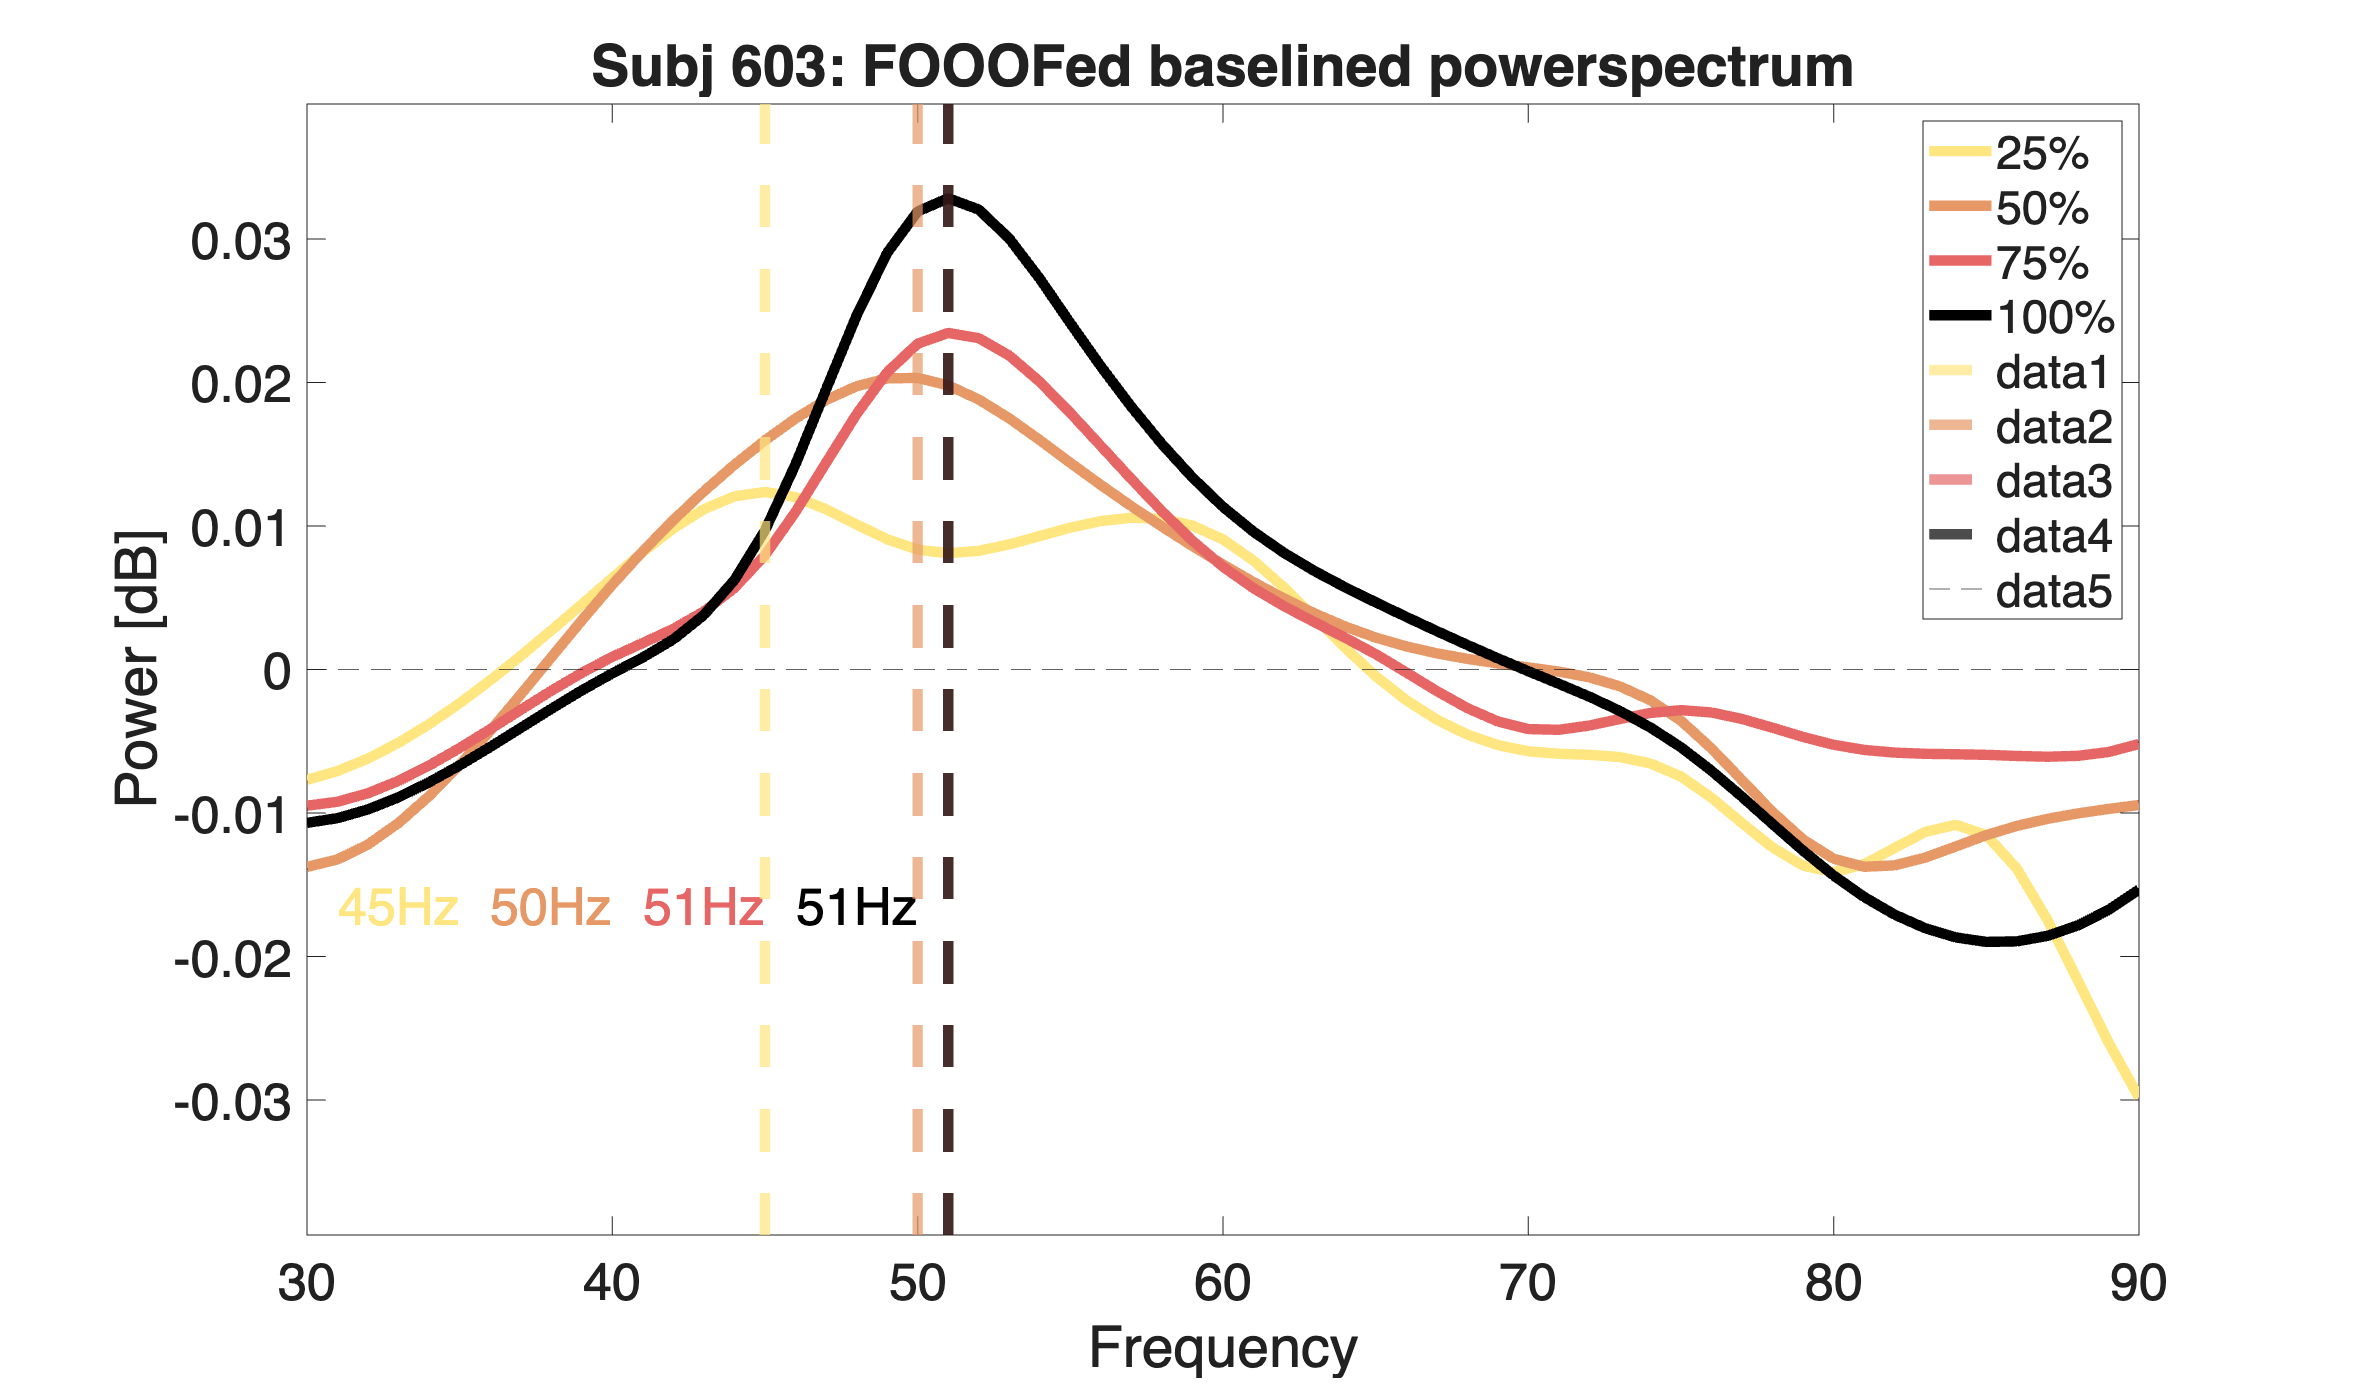
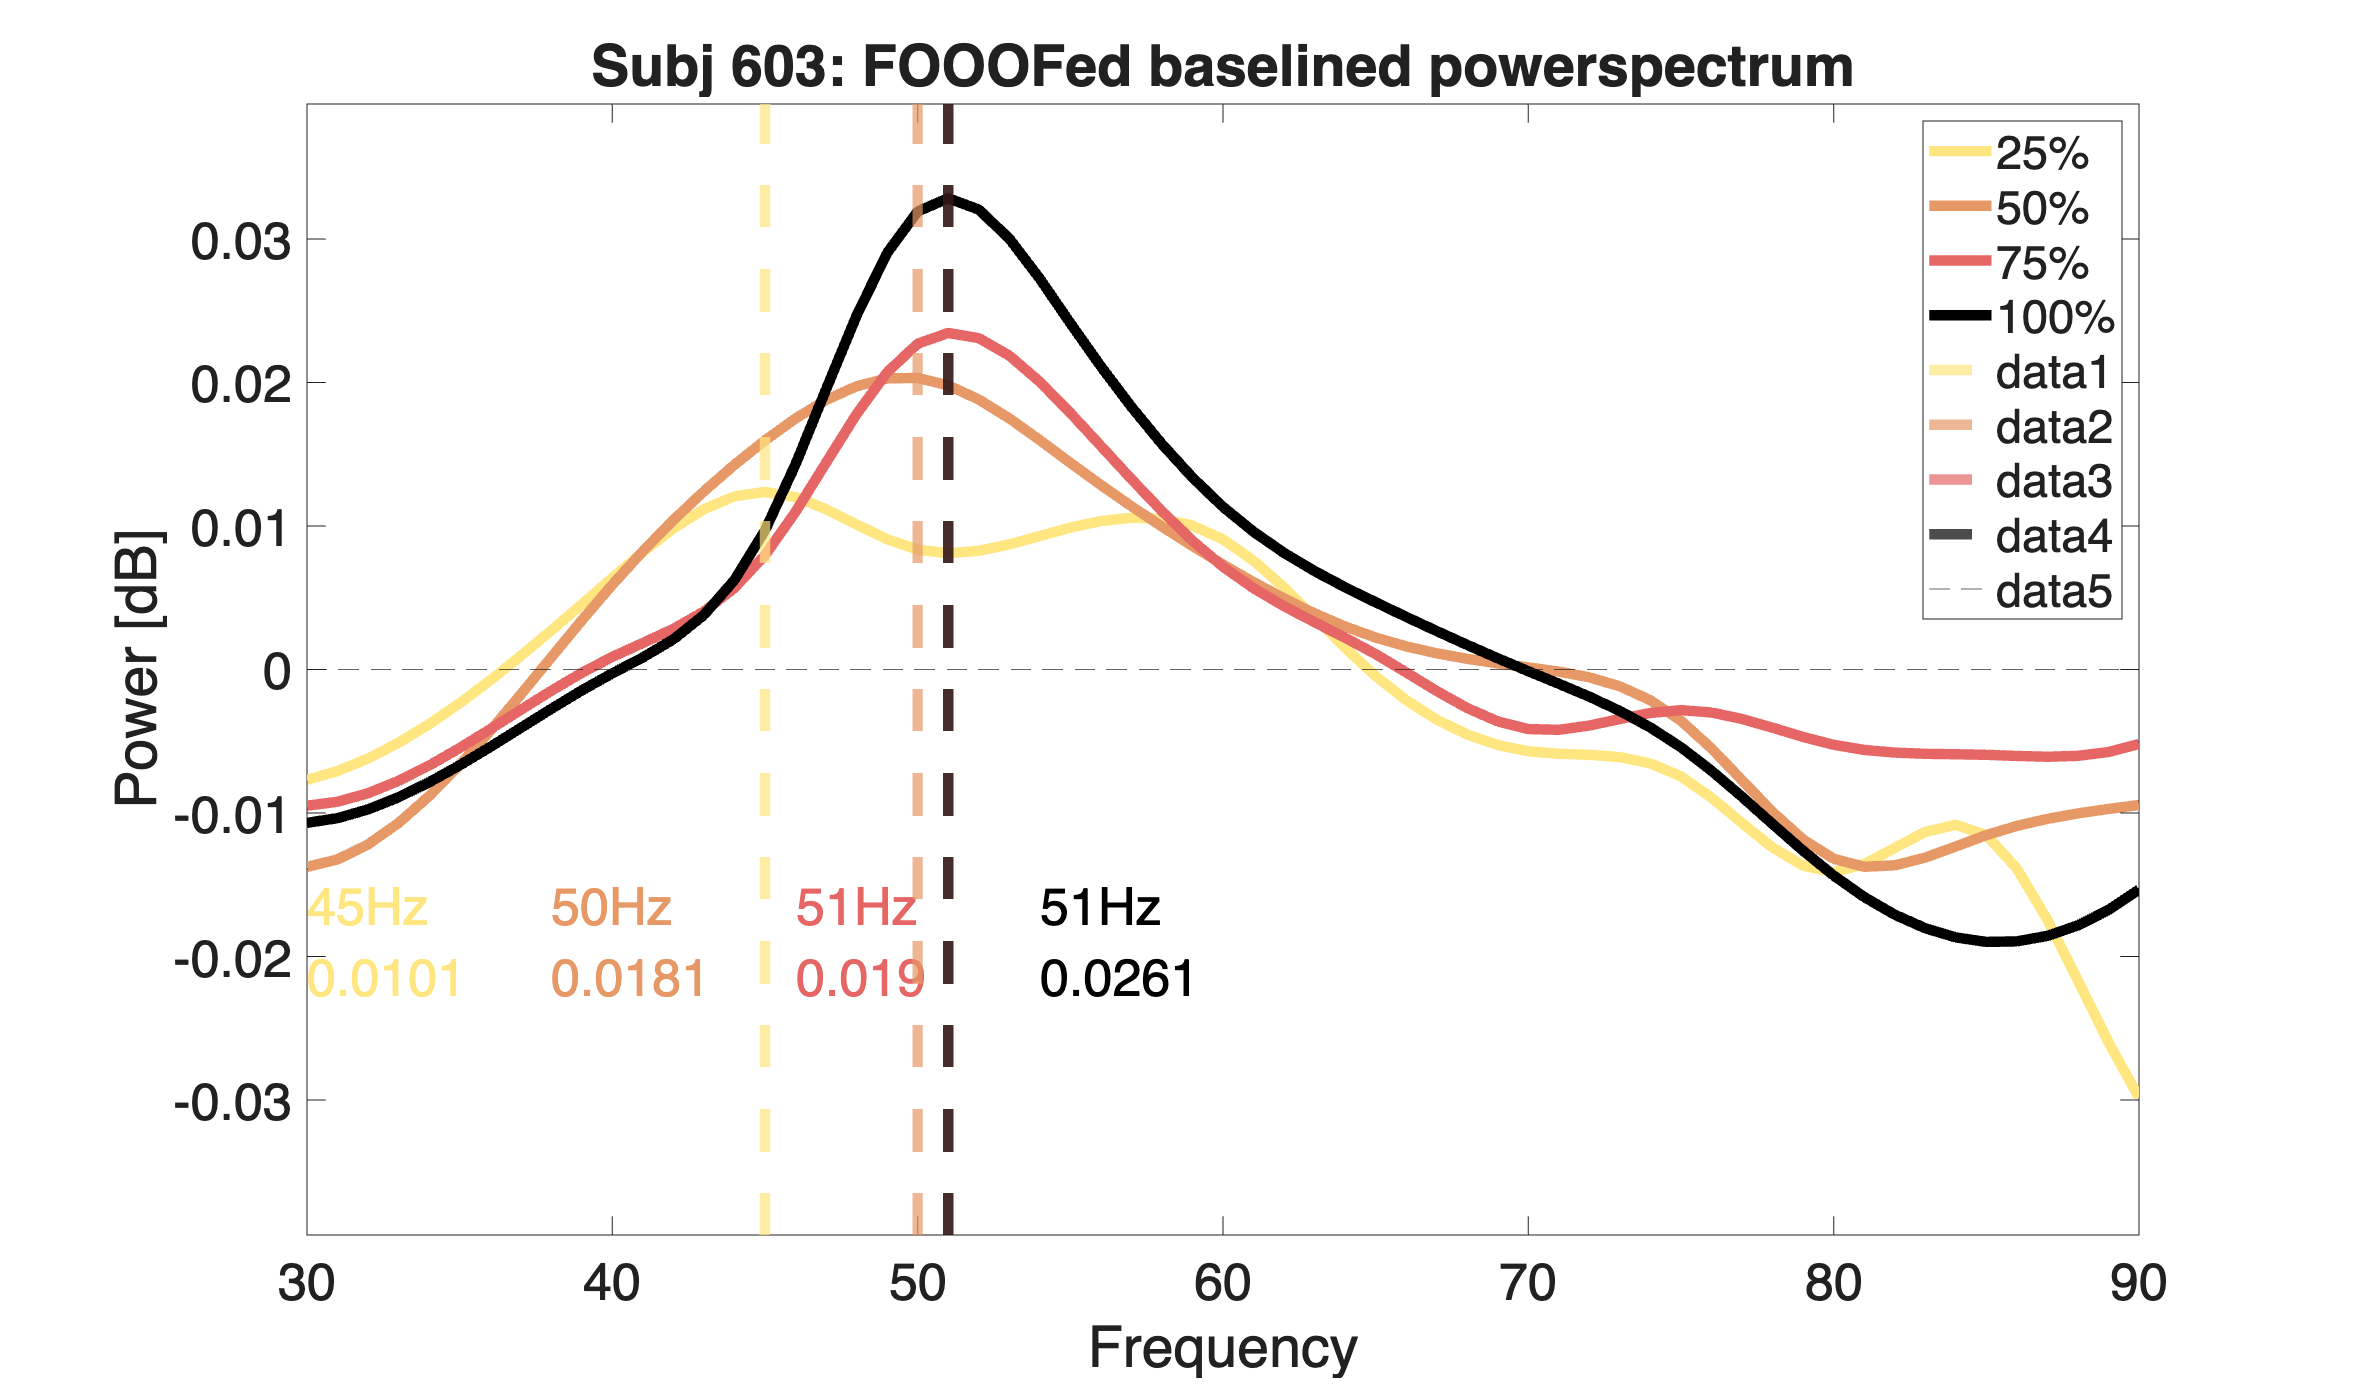
eeg fex controls powerspctrm

Changed region(s): [[0.1236, 0.6196, 0.4016, 0.7125], [0.4325, 0.6196, 0.4943, 0.7435]]

diff --git a/2_feature_extraction/GCP_eeg_fex.m b/2_feature_extraction/GCP_eeg_fex.m
@@ -11,7 +11,7 @@
 
 %% Setup
 startup
-[subjects, path, colors, ~] = setup('GCP');
+[subjects, path, ~, ~] = setup('GCP');
 
 %% Extract TFR
 % Read data, segment and convert to FieldTrip data structure
@@ -257,8 +257,8 @@ for subj = 1:length(subjects)
 
         % ±5 Hz range
         c25_freq_range = c25_freq + [-5 5];
-        c25_freq_idx_range = find(pow_c25_baselined.freq >= c25_freq_range(1) & ...
-            pow_c25_baselined.freq <= c25_freq_range(2));
+        c25_freq_idx_range = find(pow_c25_fooof_bl_smooth.freq >= c25_freq_range(1) & ...
+            pow_c25_fooof_bl_smooth.freq <= c25_freq_range(2));
 
         c25_pow = mean(c25_gamma_power(c25_freq_idx_range));
     end
@@ -277,8 +277,8 @@ for subj = 1:length(subjects)
 
         % ±5 Hz range
         c50_freq_range = c50_freq + [-5 5];
-        c50_freq_idx_range = find(pow_c50_baselined.freq >= c50_freq_range(1) & ...
-            pow_c50_baselined.freq <= c50_freq_range(2));
+        c50_freq_idx_range = find(pow_c50_fooof_bl_smooth.freq >= c50_freq_range(1) & ...
+            pow_c50_fooof_bl_smooth.freq <= c50_freq_range(2));
 
         c50_pow = mean(c50_gamma_power(c50_freq_idx_range));
     end
@@ -297,8 +297,8 @@ for subj = 1:length(subjects)
 
         % ±5 Hz range
         c75_freq_range = c75_freq + [-5 5];
-        c75_freq_idx_range = find(pow_c75_baselined.freq >= c75_freq_range(1) & ...
-            pow_c75_baselined.freq <= c75_freq_range(2));
+        c75_freq_idx_range = find(pow_c75_fooof_bl_smooth.freq >= c75_freq_range(1) & ...
+            pow_c75_fooof_bl_smooth.freq <= c75_freq_range(2));
 
         c75_pow = mean(c75_gamma_power(c75_freq_idx_range));
     end
@@ -317,8 +317,8 @@ for subj = 1:length(subjects)
 
         % ±5 Hz range
         c100_freq_range = c100_freq + [-5 5];
-        c100_freq_idx_range = find(pow_c100_baselined.freq >= c100_freq_range(1) & ...
-            pow_c100_baselined.freq <= c100_freq_range(2));
+        c100_freq_idx_range = find(pow_c100_fooof_bl_smooth.freq >= c100_freq_range(1) & ...
+            pow_c100_fooof_bl_smooth.freq <= c100_freq_range(2));
 
         c100_pow = mean(c100_gamma_power(c100_freq_idx_range));
     end
@@ -344,10 +344,14 @@ for subj = 1:length(subjects)
     title(['Subj ' num2str(subjects{subj}) ': FOOOFed baselined powerspectrum'])
     maxylim = max([abs(c25_gamma_power), abs(c50_gamma_power), abs(c75_gamma_power), abs(c100_gamma_power)]);
     ylim([-maxylim*1.2 maxylim*1.2])
-    text(31, -maxylim*0.5, [num2str(c25_freq) 'Hz'], 'FontSize', 25, 'Color', colors(1, :))
-    text(36, -maxylim*0.5, [num2str(c50_freq) 'Hz'], 'FontSize', 25, 'Color', colors(2, :))
-    text(41, -maxylim*0.5, [num2str(c75_freq) 'Hz'], 'FontSize', 25, 'Color', colors(3, :))
-    text(46, -maxylim*0.5, [num2str(c100_freq) 'Hz'], 'FontSize', 25, 'Color', colors(4, :))
+    text(30, -maxylim*0.5, [num2str(c25_freq) 'Hz'], 'FontSize', 25, 'Color', colors(1, :))
+    text(38, -maxylim*0.5, [num2str(c50_freq) 'Hz'], 'FontSize', 25, 'Color', colors(2, :))
+    text(46, -maxylim*0.5, [num2str(c75_freq) 'Hz'], 'FontSize', 25, 'Color', colors(3, :))
+    text(54, -maxylim*0.5, [num2str(c100_freq) 'Hz'], 'FontSize', 25, 'Color', colors(4, :))
+    text(30, -maxylim*0.65, [num2str(round(c25_pow, 4)) ], 'FontSize', 25, 'Color', colors(1, :))
+    text(38, -maxylim*0.65, [num2str(round(c50_pow, 4)) ], 'FontSize', 25, 'Color', colors(2, :))
+    text(46, -maxylim*0.65, [num2str(round(c75_pow, 4)) ], 'FontSize', 25, 'Color', colors(3, :))
+    text(54, -maxylim*0.65, [num2str(round(c100_pow, 4))], 'FontSize', 25, 'Color', colors(4, :))
     saveas(gcf, ['/Users/Arne/Documents/GitHub/GCP/controls/powspctrm/GCP_controls_powscptrm_subj' num2str(subjects{subj}), '.png'])
 
     % Create across condition structure

diff --git a/3_visualization/eeg/powspctr/GCP_eeg_powspctrm.m b/3_visualization/eeg/powspctr/GCP_eeg_powspctrm.m
@@ -93,7 +93,7 @@ channels = occ_channels;
 %% Plot GRAND AVERAGE power spectrum
 close all;
 figure;
-set(gcf, 'Position', [0, 0, 1000, 2000], 'Color', 'w');
+set(gcf, 'Position', [0, 0, 1200, 982], 'Color', 'w');
 cfg = [];
 cfg.channel = channels;
 cfg.figure = 'gcf';
@@ -149,7 +149,7 @@ yline(0, '--', 'Color', [0.3 0.3 0.3], 'LineWidth', 0.25);
 set(gcf, 'color', 'w');
 set(gca, 'FontSize', 20);
 % xlim([30 90])
-ylim([-0.0275 0.0275])
+ylim([-0.03 0.03])
 xlabel('Frequency [Hz]', 'FontSize', 30);
 ylabel('Power [dB]', 'FontSize', 30);
 legend(h, {' 25% Contrast',' 50% Contrast',' 75% Contrast','100% Contrast'}, 'FontName','Arial','FontSize',25);

diff --git a/2_feature_extraction/GCP_master_matrix.m b/2_feature_extraction/GCP_master_matrix.m
@@ -38,6 +38,6 @@ merged_data = table2struct(T_merge);
 save /Volumes/g_psyplafor_methlab$/Students/Arne/GCP/data/features/merged_data.mat merged_data
 
 %% Save as .csv
-merged_table = struct2table(merged_data);
+merged_table = struct2table(merged_data)
 csv_filename = '/Volumes/g_psyplafor_methlab$/Students/Arne/GCP/data/features/merged_data.csv';
 writetable(merged_table, csv_filename);
